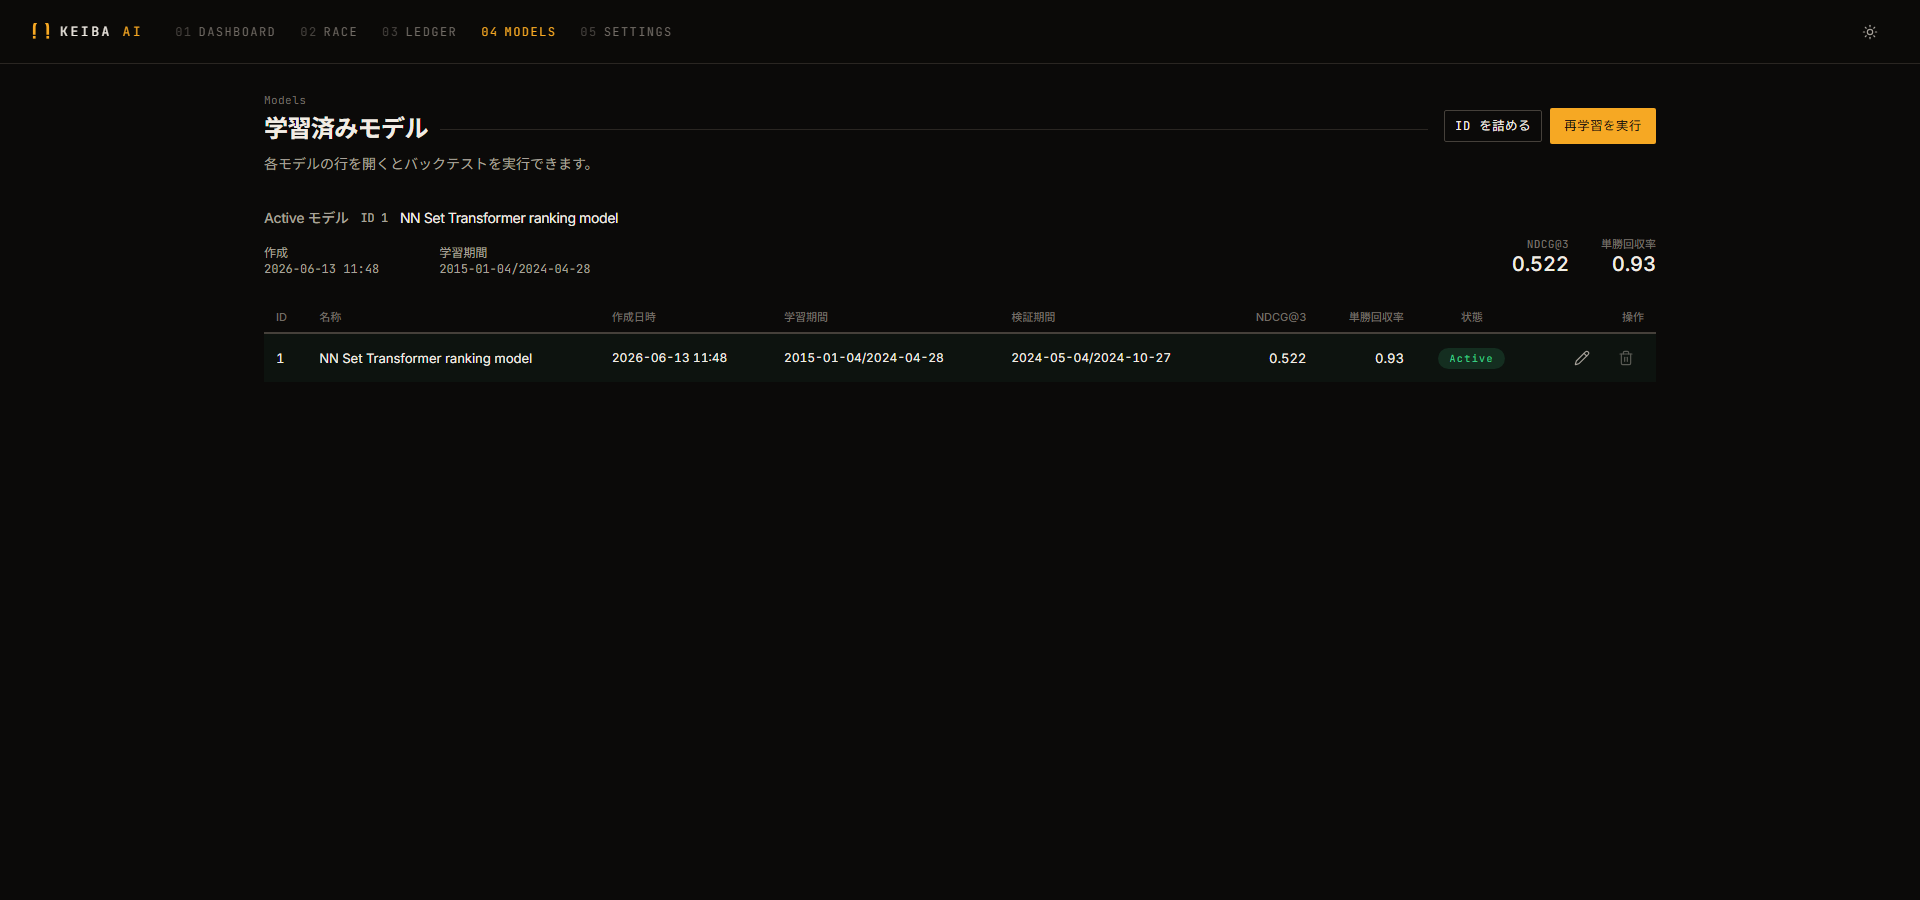
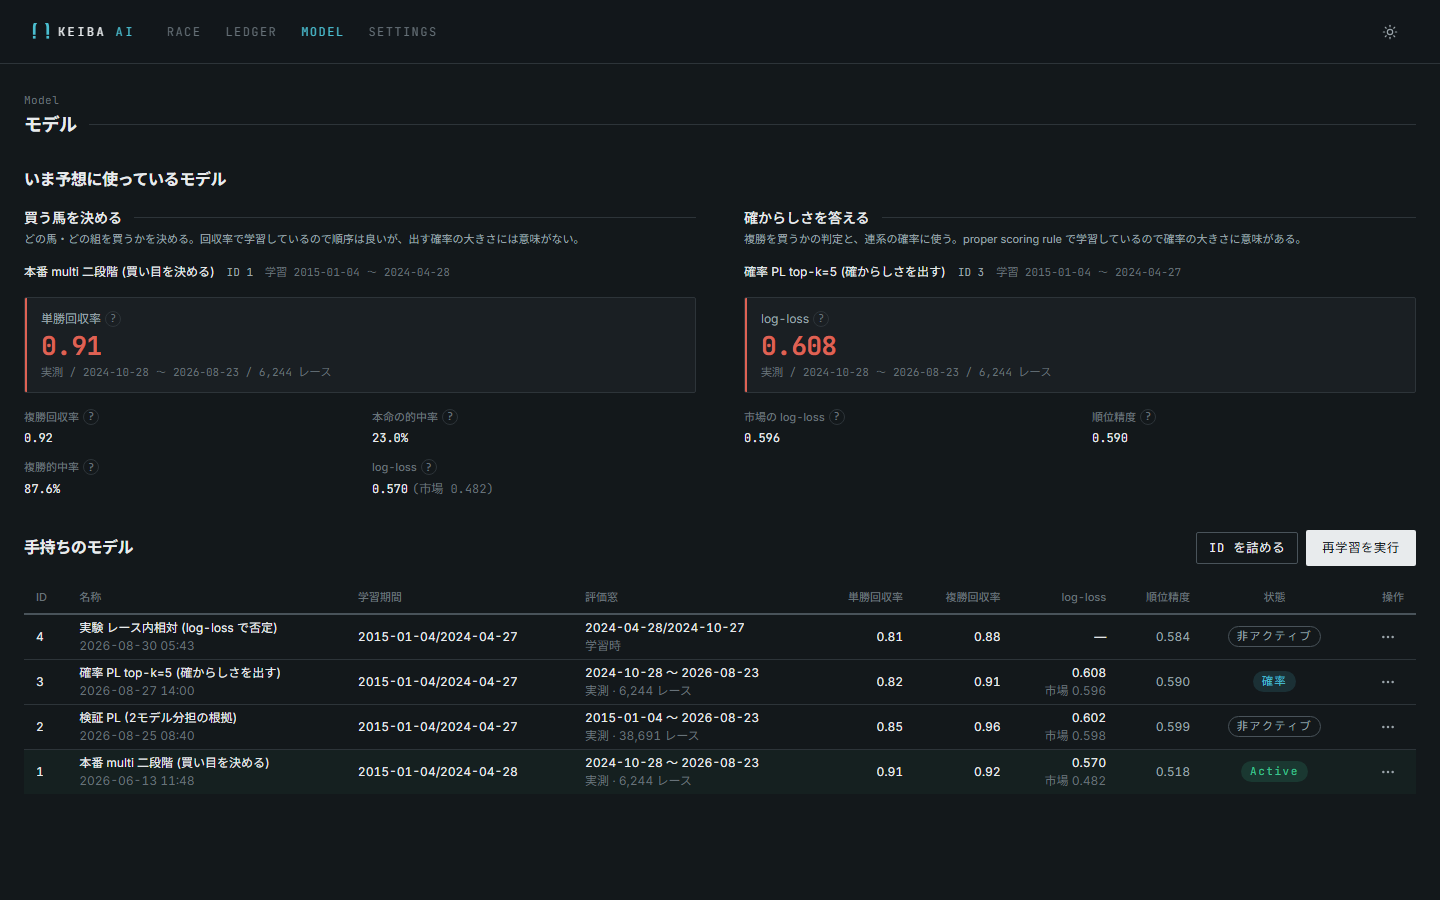
KEIBA AI を元リポジトリの現状に合わせた
回収率を測り直した窓に差し替え、47 コミットぶんの変化を本文に入れた。

- 実測を 22ヶ月 6,244 レースの値へ（単勝 0.907 [0.844, 0.972] /
  複勝 0.919 [0.892, 0.947]）。旧い 19ヶ月 5,390 レースの数字は、当時の
  窓での実測だと分かる形で本文に残す
- 「測っている数字を先に疑う」を追加。評価窓が学習期間を含んでいた件、
  検証セットが学習データそのものだった件、差を読める窓の長さ
- モデルの節を 2 モデルの役割分担（買う馬を決める / 確からしさを答える）に
- 画面の節を新しい方向「実測」に。/style と、カレンダーへの統合
- 結果の節に LightGBM と odds 4 通りの検証を足す（どれも改善せず）
- 画面キャプチャ 4 枚を撮り直したものへ。台帳の図は推奨を 12ヶ月ぶん
  記録したもので実購入ではない、とキャプションに明記
- ダッシュボードの図版を削除（画面が /models に統合されて無くなった）。
  元リポジトリでは manim スクリプトがまだ使うので、消さずに
  sources.mjs の except で取り込みから外す

diff --git a/src/data/projects.ts b/src/data/projects.ts
@@ -104,7 +104,7 @@ export const projects: Project[] = [
     subtitle:
       "データ収集から確率推定・買い目提案・収支検証までを自分で作った個人研究",
     summary:
-      "「機械学習で競馬の回収率 100% を超えられるか」を確かめるためのプロジェクトです。着順ではなく回収率そのものを最適化する損失を設計しましたが、特徴量も損失もどう足してもエッジは上積みできず、multi-seed A/B で「市場効率の壁」を定量化する結果になりました。4.5 年の前進検証を通ったのは賭け方の側（複勝を確信度で厚くする配分）だけで、それでも黒字ラインには届きません。",
+      "「機械学習で競馬の回収率 100% を超えられるか」を確かめるためのプロジェクトです。着順ではなく回収率そのものを最適化する損失を設計しましたが、特徴量も損失もモデル族も、どう変えてもエッジは上積みできず、multi-seed A/B で「市場効率の壁」を定量化する結果になりました。4.5 年の前進検証を通ったのは賭け方の側（複勝を確信度で厚くする配分）だけで、それでも黒字ラインには届きません。",
     period: "2026年3月〜",
     role: "個人開発（企画・設計・実装・実験・評価すべて）",
     stack: [
@@ -123,7 +123,10 @@ export const projects: Project[] = [
       "回収率を動かしたのはモデル改良ではなく「評価と本番のズレ」の発見だった",
     ],
     metrics: [
-      { value: "0.931 / 0.886", label: "単勝 / 複勝回収率（out-of-sample・5,390 レース）" },
+      {
+        value: "0.907 / 0.919",
+        label: "単勝 / 複勝回収率（out-of-sample・6,244 レース）",
+      },
       { value: "1,300+", label: "自動テスト（backend + frontend）" },
       { value: "46", label: "リーク防止を強制した特徴量" },
     ],
@@ -137,7 +140,8 @@ export const projects: Project[] = [
     cover: {
       src: "/images/keiba-ai/race-detail.png",
       alt: "レース詳細画面",
-      caption: "レース詳細 — 予想と推奨買い目、買い方の条件設定、レース後の答え合わせ",
+      caption:
+        "レース詳細 — 予想の根拠と実績データを 1 つの表に並べ、券種ごとの条件と点数で推奨買目を出す",
     },
     video: {
       src: "/video/keiba-model-explainer.mp4",
@@ -149,22 +153,20 @@ export const projects: Project[] = [
       {
         src: "/images/keiba-ai/race-list.png",
         alt: "レース一覧画面（カレンダー）",
-        caption: "レース — カレンダーで日を選び、その日の取り込みと予想を 1 画面で行う",
+        caption:
+          "レース — カレンダーで日を選ぶと、その日の全場の一覧が出る。取り込みも同じ画面から",
       },
       {
         src: "/images/keiba-ai/ledger.png",
         alt: "収支台帳画面",
-        caption: "収支台帳 — 買い方単位の損益管理と実オッズでの検証",
+        caption:
+          "収支台帳 — 回収率・的中率と、券種・格・月の内訳。図は active モデルの推奨を 12 ヶ月ぶん（15,387 点）実払戻で確定させた記録で、実際に購入したものではない",
       },
       {
         src: "/images/keiba-ai/models.png",
         alt: "モデル管理画面",
-        caption: "モデル管理 — 学習・切替・バックテストを画面から実行",
-      },
-      {
-        src: "/images/keiba-ai/dashboard.png",
-        alt: "ダッシュボード画面",
-        caption: "ダッシュボード — モデル成績の概観",
+        caption:
+          "モデル — 買う馬を決めるモデルと確からしさを答えるモデルを分けて持ち、それぞれの実測窓と成績を並べる",
       },
     ],
     sections: [
@@ -196,8 +198,8 @@ export const projects: Project[] = [
         ],
         bullets: [
           {
-            title: "確率の一貫性",
-            text: "全馬券種を単一のスコアベクトルから導く。温度は勝ち馬の NLL で較正し、単勝 softmax と複勝 Plackett-Luce で同じ値を使うので、馬券種間で矛盾した予測が起きない",
+            title: "確率は別のモデルに答えさせる",
+            text: "回収率を直接最適化する損失は順序を最適化するだけで、スコアの大きさに確率としての意味を持たせる圧力がかからない（本命の予測確率と実際の勝敗の相関は 0.073・市場は 0.354）。買う馬は回収率で学習したモデルが選び、その馬をどれくらい信じるかは proper scoring rule（Plackett-Luce）で学習した別モデルが答える、と役割を分けた",
           },
           {
             title: "リーク防止",
@@ -212,7 +214,7 @@ export const projects: Project[] = [
       {
         heading: "回収率を動かしたのはモデルではなかった",
         body: [
-          "回収率を実際に動かしたのは、モデルの改良ではなく「学習時に評価したものと、本番で動いているものが違う」というズレの発見でした。いずれも着順の精度はほとんど変わらないのに、回収率だけが動きます。",
+          "回収率を実際に動かしたのは、モデルの改良ではなく「学習時に評価したものと、本番で動いているものが違う」というズレの発見でした。いずれも着順の精度はほとんど変わらないのに、回収率だけが動きます（数値はいずれも当時の評価窓での実測）。",
         ],
         bullets: [
           {
@@ -229,7 +231,7 @@ export const projects: Project[] = [
           },
           {
             title: "予算の割り当てが期待値の順のままだった",
-            text: "1 レースの予算を期待値の高い順に埋めていたため、回収率の推定がいちばん確かな単複から切り捨てられていた（実測 2,034 レースで単勝 3 点・複勝 1 点しか買われていない）。並び順と 1 点あたりの金額を券種ごとに決め直しただけで総合回収率 0.776 → 0.868（2025 年 11 月〜2026 年 5 月の実測）。モデルには一切触れていない",
+            text: "1 レースの予算を期待値の高い順に埋めていたため、回収率の推定がいちばん確かな単複から切り捨てられていた（実測 2,034 レースで単勝 3 点・複勝 1 点しか買われていない）。並び順と券種ごとの厚みを決め直しただけで総合回収率 0.776 → 0.868（2025 年 11 月〜2026 年 5 月の実測）。モデルには一切触れていない",
           },
         ],
       },
@@ -250,9 +252,30 @@ export const projects: Project[] = [
         ],
       },
       {
-        heading: "画面は「読み物」ではなく「端末」",
+        heading: "測っている数字を先に疑う",
         body: [
-          "確率と金額を横断で読む道具なので、余白の広い読み物的な UI から、暗所で数字と枠色が立つオッズ端末寄りの画面に作り替えました。箱を積むのをやめて罫線で区切り、数値は等幅＋tabular-nums で桁を揃えています。「今週末のレース」「過去レース」「データ取込」も、結局どれも日付を選ぶ操作だったのでカレンダー 1 画面に統合しました。",
+          "回収率を上げにいく前に、画面に出ている数字が信用できるかを見ました。見つかった 4 件はどれも、例外を出さずにそれらしい値を返す壊れ方でした。",
+        ],
+        bullets: [
+          {
+            title: "評価窓が学習期間を含んでいた",
+            text: "バックテストの開始日を省くと DB の全期間（38,691 レース）が評価窓になり、学習に使った 10 年が大半を占めたままの単勝 0.9447 が画面に出ていた。未見期間だけで測り直すと 0.8206。モデルが見た最後の日の翌日を既定の開始日にし、学習期間と重なる評価は保存そのものを拒否するようにした",
+          },
+          {
+            title: "検証セットが学習データそのものだった",
+            text: "交差適合の early stopping が検証セットを「学習の最後の 1 fold」から取っていたため、学習が 1 fold しかない回では検証セット = 学習データになり、最初の fold だけ NLL が 0.5〜1.5 壊れていた。検証セットが作れないなら学習データで代用する、は静かに間違った数字を出す",
+          },
+          {
+            title: "差を読める窓の長さを先に決める",
+            text: "レース単位のブートストラップ 2,000 回で 95% 区間を出し、画面にも表示する。さらに回収率の差 0.05 を 95% で言うのに要る期間を券種ごとに逆算した（複勝 1.6 年・単勝 5.6 年・三連単 19 年）。単一の窓で見つけた「効いた」が前進検証で消えた 3 件は、どれも必要期間の 1/3 以下の窓で出した差だった",
+          },
+        ],
+      },
+      {
+        heading: "画面は測った値を読むための道具",
+        body: [
+          "この道具でいちばん多い操作は買い目を決めることではなく、測った値を読むこと（回収率・的中率・95% 区間・in-sample か OOS か）です。そこで地・罫線・文字は無彩で組み、強い色は枠色 8 色と損益にだけ持たせ、アクセント 1 色は〈測れているか〉だけを指すと決めました。馬が並ぶ画面には枠色が常に 8 色出るので、画面側に色を足すとデータと彩度を奪い合います。箱を積むのはやめて罫線で区切り、数値は等幅＋tabular-nums で桁を揃えました。「今週末のレース」「過去レース」「データ取込」は結局どれも日付を選ぶ操作だったので、カレンダー 1 画面に統合しています。",
+          "この規定は `/style` の 1 画面に集めてあり、そこに並ぶ数字は実際に描いた要素を `getComputedStyle` で測った値です。文書と食い違ったら、実装が変わったとその場で分かります。",
           "新馬戦のように出走馬全員が初出走のレースでは、履歴系の特徴が丸ごと欠けます。出走馬の過去走ゼロ率でレース単位の情報量を測り、レース詳細に「判断材料が少ない」と明示しました。除外しても回収率は動きませんが、買う前に分かること自体に意味があると考えています。",
         ],
       },
@@ -265,8 +288,8 @@ export const projects: Project[] = [
       {
         heading: "結果と、いちばん重要な学び",
         body: [
-          "確定実オッズ・19 ヶ月 5,390 レースの out-of-sample 検証で、アプリと同じ賭け方をした場合の回収率は単勝 0.931・複勝 0.886。一律購入のベースライン（控除率のため約 0.75〜0.80）も 1 番人気ベタ買いも上回りましたが、黒字ライン 1.0 には届きません。",
-          "特徴量の追加、損失の設計、オッズを入力しないモデルで市場の過小評価を突く戦略まで multi-seed A/B で検証しましたが、本番の回収率はひとつも改善しませんでした。4.5 年の前進検証を通ったのは賭け方の側（複勝を確信度で厚くする配分で 0.875 → 0.891）だけで、モデルの側からは何も出ていません。オッズが既に持つ情報量が支配的で、公開情報から残るエッジは控除率を覆すには足りない — この市場効率を、自前の実験基盤で再現可能な形で確認できたことが到達点だと考えています。次は公開オッズに織り込まれていない情報（ペース・区間タイム・馬場差・オッズの時系列）を入れる方向を試します。",
+          "確定実オッズ・22 ヶ月 6,244 レースの out-of-sample 検証で、アプリと同じ賭け方をした場合の回収率は単勝 0.907（95% 区間 0.844〜0.972）・複勝 0.919（0.892〜0.947）。一律購入のベースライン（控除率のため約 0.75〜0.80）も 1 番人気ベタ買い（0.792 / 0.850）も上回りますが、区間の上端でも黒字ライン 1.0 には届きません。",
+          "特徴量の追加、損失の設計、オッズの入れ方を変える 4 通りの介入、モデル族を LightGBM に替える検証まで multi-seed A/B で回しましたが、本番の回収率はひとつも改善しませんでした。回収率ではなく確率の質だけを測っても同じで、LightGBM は単勝の NLL で市場と並ぶ（1.9192 対 1.9206）ものの互角どまり、連系では控除率の大きい券種ほど市場に負けます。4.5 年の前進検証を通ったのは賭け方の側（複勝を確信度で厚くする配分で 0.875 → 0.891）だけで、モデルの側からは何も出ていません。壁はモデル族でも構造でもなく情報の側にあり、公開情報から残るエッジは控除率を覆すには足りない — この市場効率を、自前の実験基盤で再現可能な形で確認できたことが到達点だと考えています。次は公開オッズに織り込まれていない情報（ペース・区間タイム・馬場差・オッズの時系列）を入れる方向を試します。",
         ],
       },
     ],

diff --git a/src/data/imageSizes.ts b/src/data/imageSizes.ts
@@ -14,12 +14,11 @@ export const imageSizes: Record<string, { w: number; h: number }> = {
   "/images/gold-rush/gameplay-poster.webp": { w: 1280, h: 800 },
   "/images/gold-rush/hero-poster.webp": { w: 1280, h: 800 },
   "/images/gold-rush/sugoroku-poster.webp": { w: 1280, h: 800 },
-  "/images/keiba-ai/dashboard.png": { w: 1920, h: 720 },
-  "/images/keiba-ai/ledger.png": { w: 1920, h: 1080 },
+  "/images/keiba-ai/ledger.png": { w: 1440, h: 2000 },
   "/images/keiba-ai/model-explainer-poster.png": { w: 1920, h: 1080 },
-  "/images/keiba-ai/models.png": { w: 1920, h: 900 },
-  "/images/keiba-ai/race-detail.png": { w: 1920, h: 1123 },
-  "/images/keiba-ai/race-list.png": { w: 1920, h: 1080 },
+  "/images/keiba-ai/models.png": { w: 1440, h: 900 },
+  "/images/keiba-ai/race-detail.png": { w: 1440, h: 1435 },
+  "/images/keiba-ai/race-list.png": { w: 1440, h: 1064 },
   "/images/michishirube/hero-poster.webp": { w: 390, h: 844 },
   "/images/michishirube/plan-poster.webp": { w: 390, h: 844 },
   "/images/michishirube/schedule-poster.webp": { w: 390, h: 844 },
